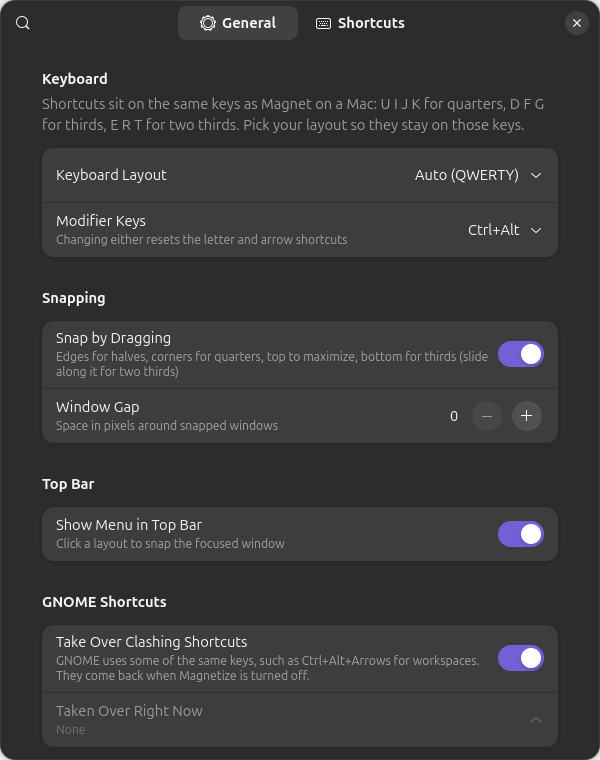
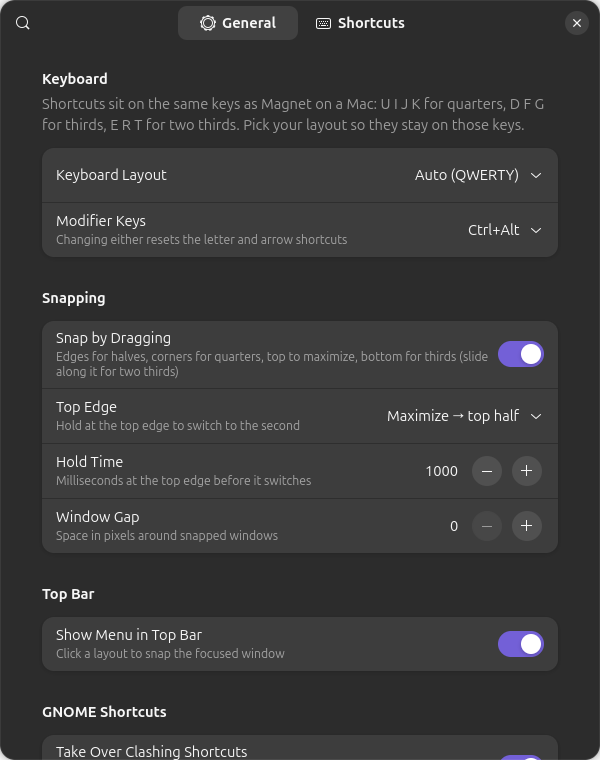
Top edge: hold to switch between maximize and top half
Like Ubuntu's Tiling Assistant: dragging to the top edge maximizes, and
holding there switches to the top half. New settings choose the order
(maximize first, top half first, or maximize only) and the hold time
(default 1 second).

Also add tests/prefs-screenshot.js, which renders the preferences window
to PNGs, and a hold time option (top:1600) for tests/touchtest.py.

diff --git a/extension.js b/extension.js
@@ -39,6 +39,12 @@ const SPRITE_RANK = SpriteRole
     ? {[SpriteRole.TOUCHPOINT]: 2, [SpriteRole.TABLET]: 1, [SpriteRole.POINTER]: 0}
     : {};
 const BOTTOM_THIRDS = ['left-third', 'center-third', 'right-third'];
+// Top edge setting -> [what you get at once, what holding still there gives].
+const TOP_EDGE = {
+    'maximize-hold-top-half': ['maximize-window', 'top-half'],
+    'top-half-hold-maximize': ['top-half', 'maximize-window'],
+    'maximize': ['maximize-window', null],
+};
 
 // GNOME 49 replaced get_maximized() and dropped the flags argument from
 // maximize()/unmaximize(); these keep GNOME 47 and 48 working too.
@@ -334,7 +340,9 @@ export default class MagnetizeExtension extends Extension {
 
         this._endDrag();
         const sprite = this._findDragSprite(win);
-        const drag = {win, sprite, moved: false, zone: null, bottomAnchor: null};
+        const drag = {win, sprite, moved: false, zone: null, bottomAnchor: null, topSince: null};
+        drag.topEdge = TOP_EDGE[this._settings.get_string('top-edge')] ?? TOP_EDGE.maximize;
+        drag.holdTime = this._settings.get_int('top-edge-hold-time') * 1000; // to µs
         drag.touch = !!sprite && sprite.role !== SpriteRole.POINTER;
         [drag.startX, drag.startY] = this._dragPosition(drag);
         this._drag = drag;
@@ -475,7 +483,7 @@ export default class MagnetizeExtension extends Extension {
         else if ((bottom && nearRight) || (right && nearBottom))
             key = 'bottom-right';
         else if (top)
-            key = 'maximize-window';
+            key = this._topZone(drag);
         else if (left)
             key = 'left-half';
         else if (right)
@@ -485,7 +493,21 @@ export default class MagnetizeExtension extends Extension {
 
         if (!BOTTOM_THIRDS.includes(key) && !key?.endsWith('two-thirds'))
             drag.bottomAnchor = null;
+        if (!top || key !== this._topZone(drag, false))
+            drag.topSince = null;
         return key ? {key, monitorIndex} : null;
+    }
+
+    // Top edge: one layout straight away, the other after holding there for
+    // a while (like Ubuntu's Tiling Assistant). Moving along the edge keeps
+    // the hold going; leaving it starts over.
+    _topZone(drag, track = true) {
+        const [first, held] = drag.topEdge;
+        const now = GLib.get_monotonic_time();
+        if (track)
+            drag.topSince ??= now;
+        const holding = drag.topSince !== null && now - drag.topSince >= drag.holdTime;
+        return held && holding ? held : first;
     }
 
     // Bottom edge: thirds, and sliding into a neighbouring third makes it two

diff --git a/tests/prefs-screenshot.js b/tests/prefs-screenshot.js
@@ -1,0 +1,47 @@
+// Build the real preferences window outside GNOME Shell and save each page
+// as a PNG, with settings kept in memory so nothing on the system changes.
+//
+// S=$(mktemp -d); cp -r metadata.json prefs.js actions.js presets.js schemas $S/
+// glib-compile-schemas $S/schemas
+// GI_TYPELIB_PATH=/usr/lib/gnome-shell/girepository-1.0 LD_LIBRARY_PATH=/usr/lib/gnome-shell \
+//     GSETTINGS_BACKEND=memory gjs -m tests/prefs-screenshot.js $S out-dir
+import Adw from 'gi://Adw';
+import Gio from 'gi://Gio';
+import GLib from 'gi://GLib';
+import Gtk from 'gi://Gtk';
+
+Gio.Resource.load('/usr/share/gnome-shell/org.gnome.Shell.Extensions.src.gresource')._register();
+
+const [extDir, outDir] = ARGV;
+const dir = Gio.File.new_for_path(extDir);
+const metadata = JSON.parse(new TextDecoder().decode(dir.get_child('metadata.json').load_contents(null)[1]));
+Object.assign(metadata, {dir, path: dir.get_path()});
+const {default: Prefs} = await import(`file://${dir.get_path()}/prefs.js`);
+
+const app = new Adw.Application({application_id: 'dev.magnetize.PrefsScreenshot'});
+app.connect('activate', () => {
+    const window = new Adw.PreferencesWindow({application: app});
+    new Prefs(metadata).fillPreferencesWindow(window);
+    window.present();
+
+    const pages = ['general', 'shortcuts'];
+    const next = () => {
+        const page = pages.shift();
+        if (!page) {
+            app.quit();
+            return GLib.SOURCE_REMOVE;
+        }
+        window.visible_page_name = page;
+        GLib.timeout_add(GLib.PRIORITY_DEFAULT, 700, () => {
+            const snapshot = new Gtk.Snapshot();
+            new Gtk.WidgetPaintable({widget: window}).snapshot(snapshot, window.get_width(), window.get_height());
+            window.get_native().get_renderer().render_texture(snapshot.to_node(), null)
+                .save_to_png(`${outDir}/${page}.png`);
+            print(`saved ${outDir}/${page}.png`);
+            return next();
+        });
+        return GLib.SOURCE_REMOVE;
+    };
+    next();
+});
+app.run([]);

diff --git a/prefs.js b/prefs.js
@@ -55,6 +55,23 @@ export default class MagnetizePreferences extends ExtensionPreferences {
         settings.bind('drag-snapping', drag, 'active', Gio.SettingsBindFlags.DEFAULT);
         snapping.add(drag);
 
+        snapping.add(this._choiceRow(settings, 'top-edge', 'Top Edge', [
+            ['maximize-hold-top-half', 'Maximize → top half'],
+            ['top-half-hold-maximize', 'Top half → maximize'],
+            ['maximize', 'Maximize only'],
+        ], 'Hold at the top edge to switch to the second'));
+
+        const hold = Adw.SpinRow.new_with_range(200, 3000, 100);
+        hold.set({title: 'Hold Time', subtitle: 'Milliseconds at the top edge before it switches'});
+        settings.bind('top-edge-hold-time', hold, 'value', Gio.SettingsBindFlags.DEFAULT);
+        const syncHold = () => {
+            hold.sensitive = settings.get_boolean('drag-snapping') && settings.get_string('top-edge') !== 'maximize';
+        };
+        syncHold();
+        const holdIds = ['changed::top-edge', 'changed::drag-snapping'].map(sig => settings.connect(sig, syncHold));
+        hold.connect('destroy', () => holdIds.forEach(id => settings.disconnect(id)));
+        snapping.add(hold);
+
         const gap = Adw.SpinRow.new_with_range(0, 64, 2);
         gap.set({title: 'Window Gap', subtitle: 'Space in pixels around snapped windows'});
         settings.bind('window-gap', gap, 'value', Gio.SettingsBindFlags.DEFAULT);
@@ -86,7 +103,8 @@ export default class MagnetizePreferences extends ExtensionPreferences {
             const value = choices[row.selected][0];
             if (value !== settings.get_string(key)) {
                 settings.set_string(key, value);
-                this._applyPreset(false);
+                if (key === 'keyboard-layout' || key === 'modifiers')
+                    this._applyPreset(false);
             }
         });
         return row;

diff --git a/tests/touchtest.py b/tests/touchtest.py
@@ -2,6 +2,8 @@
 
 Usage: python3 tests/touchtest.py [--mouse] [left|right|top|top-left|bottom ...]
 
+Add :ms to hold at a target before lifting, e.g. top:1500 (default 400).
+
 Each target drags the (maximized) test window from the middle of its title
 bar to that spot on the screen, then lifts. Touches go through Mutter's
 RemoteDesktop D-Bus API, tied to a screencast of the first monitor, which is
@@ -122,7 +124,8 @@ def on_activate(app):
             call(RD, rd_session, RD + '.Session', 'Stop')
             GLib.timeout_add(1000, app.quit)
             return False
-        target = targets.pop(0)
+        target, _, hold = targets.pop(0).partition(':')
+        hold = int(hold or 400)
         win.maximize()
 
         def go():
@@ -139,7 +142,7 @@ def on_activate(app):
                 i = next(steps, None)
                 if i is None:
                     # Hold still a moment, like a person would, then lift.
-                    GLib.timeout_add(400, lift)
+                    GLib.timeout_add(hold, lift)
                     return False
                 f = i / 30
                 touch('Motion', 0, start[0] + (end[0] - start[0]) * f, start[1] + (end[1] - start[1]) * f)

diff --git a/README.md b/README.md
@@ -47,7 +47,7 @@ Drag a window to a screen edge:
 
 - **Left or right edge:** half
 - **Corner:** quarter
-- **Top:** maximize
+- **Top:** maximize. Keep holding there for a second to get the top half instead.
 - **Bottom:** thirds. Slide along the bottom into the next third for two thirds.
 
 A preview shows where the window will land, and dragging a snapped window away gives it its old size back. Works with a mouse, a touchscreen or a pen.
@@ -61,6 +61,7 @@ Open them from the magnet in the top bar, or run `gnome-extensions prefs magneti
 - Keyboard layout (auto-detected) and modifier keys (Ctrl+Alt, Super+Alt or Ctrl+Super)
 - Change any shortcut, including fourths and sixths, which start unbound
 - Gaps between windows
+- What the top edge does (maximize first or top half first) and how long to hold it
 - Turn drag snapping or the top-bar menu on or off
 
 ## Good to know
